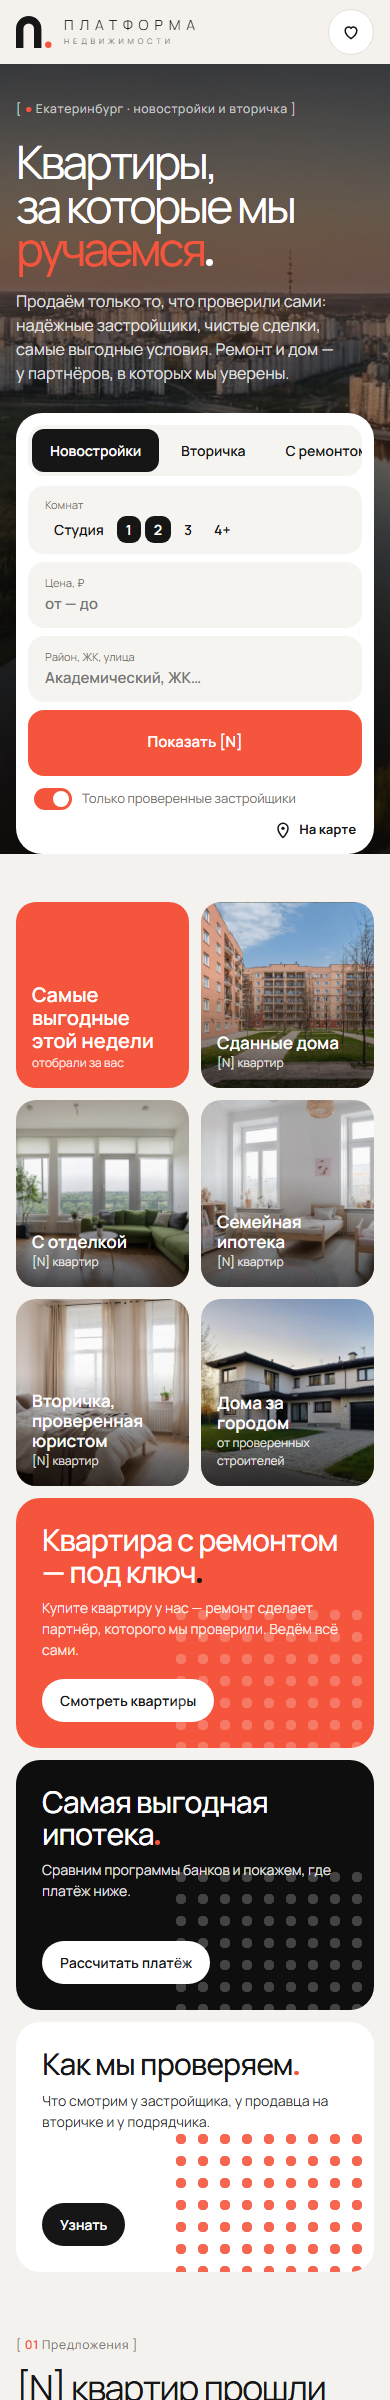
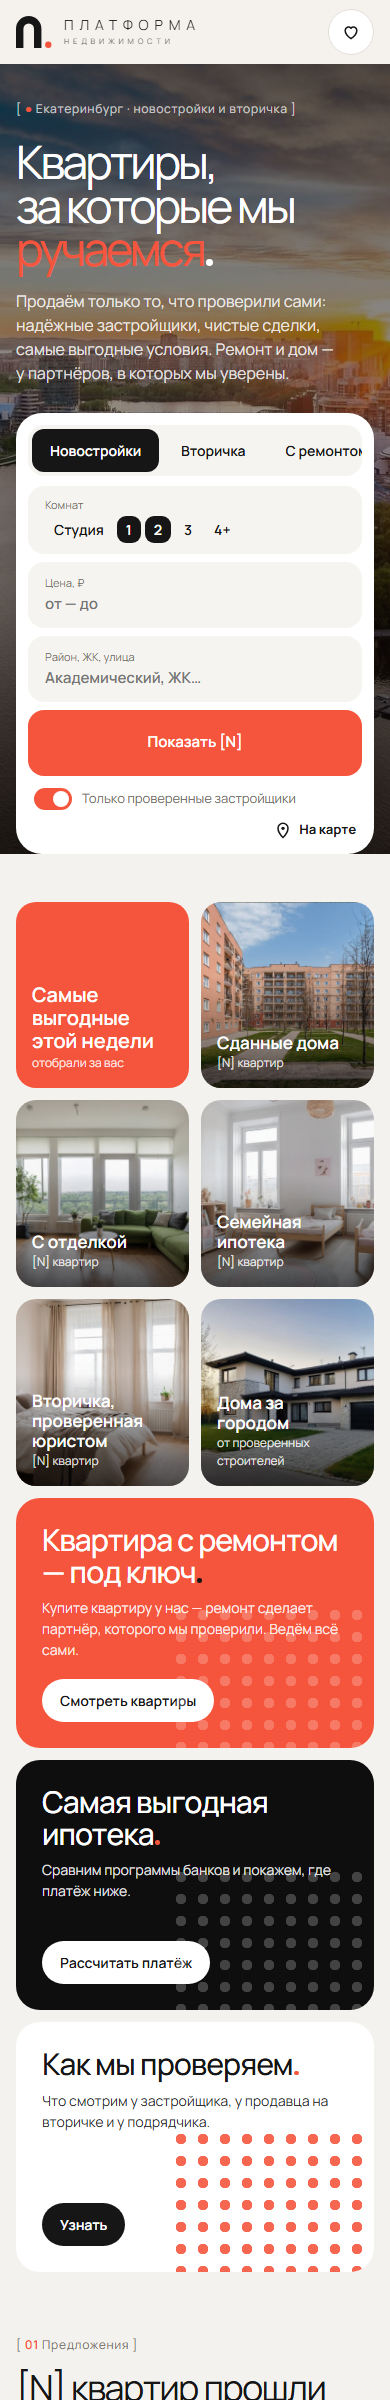
Реальное фото Екатеринбурга на первом экране сайта и обложке презентации

Changed region(s): [[0.0, 0.0312, 1.0, 0.3438]]

diff --git a/07_Презентация/index.html b/07_Презентация/index.html
@@ -19,7 +19,7 @@ p.lead{font-size:20px;line-height:1.55;max-width:620px;color:inherit;opacity:.85
 .cover{height:780px;background:#F5553C;display:grid;grid-template-columns:1fr 1fr}
 .cover .l svg{width:150px;height:auto}
 .cover .l{padding:80px 96px;display:flex;flex-direction:column;justify-content:space-between;color:#fff}
-.cover .r{background:url(photo/ekb_aerial.jpg) 46% 50%/cover;position:relative}
+.cover .r{background:url(photo/ekb_city.jpg) 33% 50%/cover;position:relative}
 .cover .r::after{display:none}
 .cover .meta{display:flex;justify-content:space-between;font-size:12px;letter-spacing:.3em;text-transform:uppercase;opacity:.8}
 /* about */
@@ -127,7 +127,7 @@ p.lead{font-size:20px;line-height:1.55;max-width:620px;color:inherit;opacity:.85
     <div><svg width="150" height="132.4" viewBox="0 0 68 60" role="img" aria-label="Знак «П.»" style="overflow:visible;display:block"><path d="M0 60 V24 A24 24 0 0 1 48 24 V60 H34 V24 A10 10 0 0 0 14 24 V60 Z" fill="#FFFFFF"/><circle cx="61" cy="54" r="6" fill="#0E0E0F"/></svg><div style="margin-top:56px"><div style="display:flex;flex-direction:column;align-items:flex-start"><div style="font:300 30px/1 Manrope,sans-serif;letter-spacing:.42em;margin-right:-.42em;color:#FFFFFF;white-space:nowrap">ПЛАТФОРМА</div><div style="font:400 16.5px/1 Manrope,sans-serif;letter-spacing:.5em;margin-right:-.5em;color:#FFE1DB;white-space:nowrap;margin-top:16px">НЕДВИЖИМОСТИ</div></div></div></div>
     <div style="font:400 26px/1.2 Manrope;letter-spacing:-.01em"><em class="nw">Квартира<i class="o n"></i></em> <em class="nw">Ремонт<i class="o n"></i></em> <em class="nw">Дом<i class="o n"></i></em></div>
   </div>
-  <div class="r" role="img" aria-label="Екатеринбург на закате: новые кварталы у пруда"></div>
+  <div class="r" role="img" aria-label="Екатеринбург на закате: Городской пруд и Исеть-башня"></div>
 </section>
 
 <section class="dark"><div class="in">

diff --git a/08_Сайт_пример/index.html b/08_Сайт_пример/index.html
@@ -38,7 +38,7 @@ nav.main a.on::after{content:'';display:inline-block;width:5px;height:5px;border
 
 /* hero — фото во весь экран */
 .hero{position:relative;min-height:clamp(560px,calc(100vh - 76px),1400px);min-height:clamp(560px,calc(100svh - 76px),1400px);display:flex;color:#fff;overflow:hidden;background:#2a211c}
-.hbg{position:absolute;inset:0;background:url(photo/ekb_aerial.jpg) center 55%/cover;transform:scale(1.02)}
+.hbg{position:absolute;inset:0;background:url(photo/ekb_city.jpg) 60% 45%/cover;transform:scale(1.02)}
 .hbg::after{content:'';position:absolute;inset:0;background:linear-gradient(90deg,#0d0a08e6 0%,#0d0a08a8 30%,#0d0a0833 58%,#0000 74%),linear-gradient(0deg,#000a 0%,#0000 38%)}
 .hin{position:relative;z-index:1;width:100%;display:flex;flex-direction:column;justify-content:space-between;gap:48px;padding-top:clamp(40px,8vh,130px);padding-bottom:clamp(24px,4.5vh,64px)}
 .hl{max-width:min(1100px,58vw)}
@@ -259,7 +259,7 @@ footer h4{color:var(--milk);font-size:14px;margin:0 0 12px}footer a{display:bloc
 
 <main>
 <section class="hero" id="search">
-  <div class="hbg" role="img" aria-label="Екатеринбург на закате: новые жилые кварталы у пруда"></div>
+  <div class="hbg" role="img" aria-label="Екатеринбург на закате: Городской пруд и деловой центр"></div>
   <div class="chipv"><h3><i></i>ЖК [НАЗВАНИЕ] — проверен</h3>
     <ul><li><svg><use href="#check"/></svg>Разрешение на строительство</li><li><svg><use href="#check"/></svg>Проектная декларация, эскроу</li><li><svg><use href="#check"/></svg>Прошлые дома сданы в срок</li><li><svg><use href="#check"/></svg>Нет банкротных дел</li></ul></div>
   <div class="w hin">

diff --git a/tools/p_present.py b/tools/p_present.py
@@ -203,7 +203,7 @@ p.lead{{font-size:20px;line-height:1.55;max-width:620px;color:inherit;opacity:.8
 .cover{{height:780px;background:{RED};display:grid;grid-template-columns:1fr 1fr}}
 .cover .l svg{{width:150px;height:auto}}
 .cover .l{{padding:80px 96px;display:flex;flex-direction:column;justify-content:space-between;color:#fff}}
-.cover .r{{background:url(photo/ekb_aerial.jpg) 46% 50%/cover;position:relative}}
+.cover .r{{background:url(photo/ekb_city.jpg) 33% 50%/cover;position:relative}}
 .cover .r::after{{display:none}}
 .cover .meta{{display:flex;justify-content:space-between;font-size:12px;letter-spacing:.3em;text-transform:uppercase;opacity:.8}}
 /* about */
@@ -311,7 +311,7 @@ p.lead{{font-size:20px;line-height:1.55;max-width:620px;color:inherit;opacity:.8
     <div>{mark(150, WHITE, NIGHT)}<div style="margin-top:56px">{word(WHITE, 30, "#FFE1DB")}</div></div>
     <div style="font:400 26px/1.2 Manrope;letter-spacing:-.01em">Квартира<i class="o n"></i> Ремонт<i class="o n"></i> Дом<i class="o n"></i></div>
   </div>
-  <div class="r" role="img" aria-label="Екатеринбург на закате: новые кварталы у пруда"></div>
+  <div class="r" role="img" aria-label="Екатеринбург на закате: Городской пруд и Исеть-башня"></div>
 </section>
 
 <section class="dark"><div class="in">
